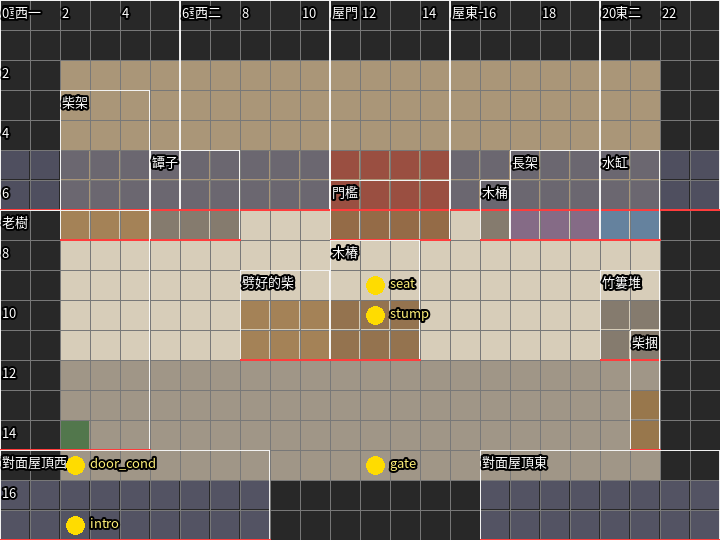
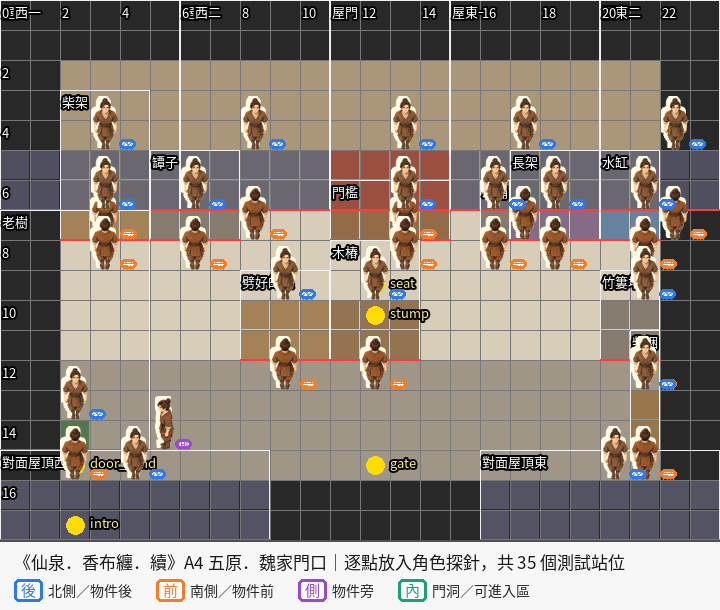
補上逐點分層測試角色示意

diff --git a/_posts/2026-10-13-larch-rpg-map-occlusion.md b/_posts/2026-10-13-larch-rpg-map-occlusion.md
@@ -12,7 +12,7 @@ author: Yaze Lin
 
 我在製作《仙泉．香布纏．續》、《王子姬》和《十一分鐘》的地圖時，先用不同顏色的格子、透明圖框和測試角色確認空間關係。我和 AI 對著同一張色塊圖看動線、碰撞和前後順序，確認後才開始製作正式地圖。這個順序讓地圖設計能先被看見、討論和修改，之後才進入美術製作。
 
-本文的色塊圖依三個專案目前的地圖設計重新輸出，實際效果圖則於 2026 年 10 月 13 日從各作品目前的 Larch 本機預覽重新擷取。
+本文的色塊圖依三個專案目前的地圖設計重新輸出，角色探針按現有物件座標重畫，呈現逐點放入角色確認遮擋的方法；每個圖示代表不同回合的一個測試站位。實際效果圖則於 2026 年 10 月 13 日從各作品目前的 Larch 本機預覽重新擷取。
 
 ## 先分清楚「站在哪裡」和「畫到哪裡」
 
@@ -27,7 +27,9 @@ author: Yaze Lin
 
 ## 先把地圖畫成色塊
 
-色塊圖用來檢查座標與空間關係；正式地面美術會在確認後再製作。每個物件依類型使用不同顏色，格線標出座標；圖框外框表示透明圖片會占到的畫面範圍，紅線標出排序列，黃色點標出角色起點、走路點或互動位置。佔地與圖片範圍分開顯示後，就能看出「角色可以走進圖框，卻不能穿過家具底座」這種細節。
+色塊圖用來檢查座標與空間關係；正式地面美術會在確認後再製作。每個物件依類型使用不同顏色，格線標出座標；圖框外框表示透明圖片會占到的畫面範圍，紅線標出排序列，黃色點標出原本的角色起點、走路點或互動位置。這次補上的小角色則是分層測試探針：藍色標在物件後方，橘色標在前方，紫色標在側邊，綠色標在門洞或可穿入處。圖上的每一個小角色代表一個測試站位，實際確認時會逐一移動角色，不是讓所有角色同時留在地圖上。
+
+佔地與圖片範圍分開顯示後，就能看出「角色可以走進圖框，卻不能穿過家具底座」這種細節。角色探針是為了查看排序而暫時放置；如果站在牆後或阻擋格，只代表測試渲染，不代表正式地圖會開放那一格通行。實際能走的位置仍由佔地與碰撞設定決定。
 
 這階段我會先確認幾件事：
 
@@ -36,17 +38,17 @@ author: Yaze Lin
 3. 角色站在物件前、後與旁邊時，遮擋順序是否符合畫面預期。
 4. 物件往上延伸的透明圖框會不會蓋到不相關的角色或家具。
 
-我會先放進幾個模擬角色，在家具前後各站一次。角色在兩邊移動時，圖層排序能直接看出來；透明圖框的高度或排序列有偏差，也會在這時候出現。用色塊與測試角色確認後，再把同一份設計交給正式地圖素材使用。
+我會把角色探針逐一放進每個可能互相遮擋的位置，通常在物件前後各放一次；若物件往側邊延伸、角色能穿過門洞或走進透明圖框，也會另外安排側邊、門洞或框內的位置。這樣可以逐件檢查排序，而不是只在地圖中央挑幾處試走。角色在前後移動時，圖層排序能直接看出來；透明圖框的高度或排序列有偏差，也會在這時候出現。用色塊與測試角色確認後，再把同一份設計交給正式地圖素材使用。
 
 ## 三款作品使用同一個方法
 
 ### 《仙泉．香布纏．續》：先確認魏家門口的門檻和院子走位
 
-目前的 A4「五原．魏家門口」地圖，把門檻、屋前的柴架和水缸，以及院子裡的木樁、劈好的柴、籬笆和老樹分開標示。門口與院子的走位先在色塊圖上確認，角色才能從門框前後通過。
+目前的 A4「五原．魏家門口」地圖，把門檻、屋前的柴架、罈子、木桶、長架與水缸，以及院子裡的木樁、劈好的柴、竹簍、柴捆、老樹和對面屋頂分開標示。門口與院子的走位先在色塊圖上確認，角色才能從門框前後通過。
 
-![《仙泉．香布纏．續》A4 五原．魏家門口地圖的多色格線規劃，標出門檻、屋前物件、院子、物件佔地與角色站位](/images/blog/2026-10-13-larch-rpg-map-layering/xiangbu-xu-a4-plan.png)
+![《仙泉．香布纏．續》A4 五原．魏家門口地圖的多色格線規劃，角色探針標出屋身、門檻、屋前雜物、木樁、柴堆、竹簍、老樹和屋頂的前後或側邊測試位置](/images/blog/2026-10-13-larch-rpg-map-layering/xiangbu-xu-a4-plan.png)
 
-*色塊規劃：先確認門檻、屋前物件、院子走位和各物件的佔地範圍。*
+*色塊規劃：按目前 A4 物件配置標出 35 個測試站位；角色要逐一放進各處檢查，圖上的多個位置不代表同時出現。*
 
 ![《仙泉．香布纏．續》A4 五原．魏家門口地圖的實際遊戲畫面，角色站在門檻前，可看到門框和院內物件的相對位置](/images/blog/2026-10-13-larch-rpg-map-layering/xiangbu-xu-a4-gameplay.jpg)
 
@@ -56,9 +58,9 @@ author: Yaze Lin
 
 育嬰室與王城廣場都採用細格設計。地面是底圖，家具或噴水池等物件則各自使用透明圖片；角色沿著佔地格行走，排序依照角色與物件所在的列調整。這種切分讓角色走到沙發、欄杆或噴水池前後時，能呈現合適的遮擋。
 
-![《王子姬》王城中央廣場的色塊設計圖，標出草坪、步道、花圃、噴水池和角色進出口](/images/blog/2026-10-13-larch-rpg-map-layering/prince-hime-plaza-plan.png)
+![《王子姬》王城中央廣場的色塊設計圖，在噴水池、長椅、樹、花圃、路燈、旗桿和公告欄前後放入角色探針](/images/blog/2026-10-13-larch-rpg-map-layering/prince-hime-plaza-plan.png)
 
-*色塊規劃：草地、石路、花圃與物件各有座標，角色進出口也先放進圖上。*
+*色塊規劃：20 件物件各有前後測試角色，共標出 40 個探針位置；藍色看物件後方，橘色看物件前方。*
 
 ![《王子姬》王城中央廣場的本機預覽畫面，一名角色站在噴水池南側，周圍有長椅、花圃和樹木](/images/blog/2026-10-13-larch-rpg-map-layering/prince-hime-plaza-gameplay.png)
 
@@ -66,11 +68,11 @@ author: Yaze Lin
 
 ### 《十一分鐘》：把辦公室的桌面、隔間和門洞拆開
 
-《十一分鐘》的十九樓網管中心把工位、隔間牆、茶水間和主任辦公室放進同一張 RPG 地圖。工位桌面和螢幕往上延伸，角色走到桌子後面時會被桌面遮住；主任室與樓梯門則在佔地格裡留出門洞。欄杆或盆栽葉片可以把圖片範圍往側邊延伸，碰撞仍依照地面佔地處理。
+《十一分鐘》的十九樓網管中心把工位、隔間牆、茶水間和主任辦公室放進同一張 RPG 地圖。工位桌面和螢幕往上延伸，角色走到桌子後面時會被桌面遮住；主任室與樓梯門則在佔地格裡留出門洞。盆栽葉片可以把圖片範圍往側邊延伸，碰撞仍依照地面佔地處理。
 
-![《十一分鐘》十九樓網管中心的多色格線配置圖，標出工位、茶水間、主任辦公室、門洞和巡邏角色位置](/images/blog/2026-10-13-larch-rpg-map-layering/eleven-minutes-office-plan.png)
+![《十一分鐘》十九樓網管中心的多色格線配置圖，角色探針覆蓋工位、窗牆、玻璃隔間、茶水間、電梯與門洞的前後測試位置](/images/blog/2026-10-13-larch-rpg-map-layering/eleven-minutes-office-plan.png)
 
-*色塊規劃：先檢查工位、隔間與通道，再安排主角和巡邏角色的站位。*
+*色塊規劃：把牆柱的獨立排序段也列入後，共標出 92 個前後、側邊與門洞測試站位；每次移動一個角色逐點確認。*
 
 ![《十一分鐘》十九樓網管中心的本機預覽畫面，主角在工位旁，周主任位於辦公室隔間門口，警衛在下方走道](/images/blog/2026-10-13-larch-rpg-map-layering/eleven-minutes-office-gameplay.jpg)
 
